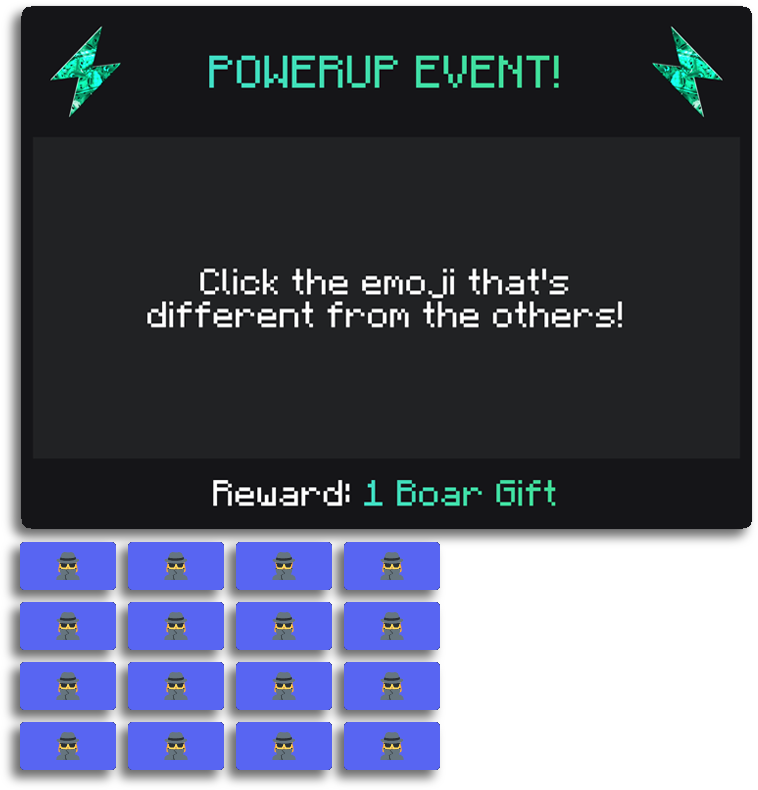
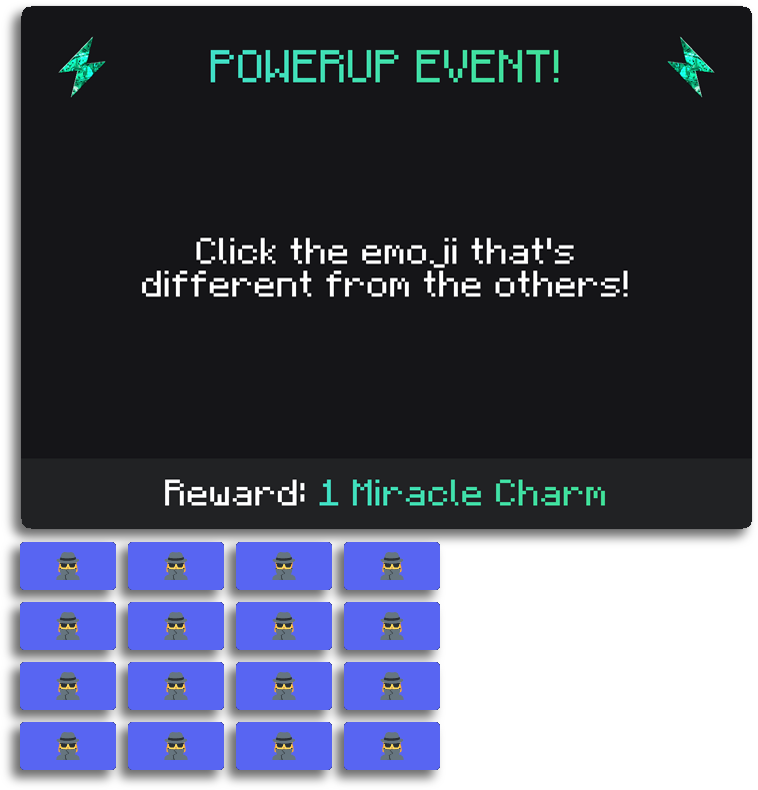
fix for updated images
changed the css colors back, also replaced new TS powerup image with JE powerup image

diff --git a/main.css b/main.css
@@ -42,12 +42,12 @@ html, body {
 }
 
 h1 {
-    color: #40DEA9;
+    color: #51d181;
     font-size: 36px;
 }
 
 h2 {
-    color: #40DEA9;
+    color: #51d181;
     font-size: 20px;
 }
 
